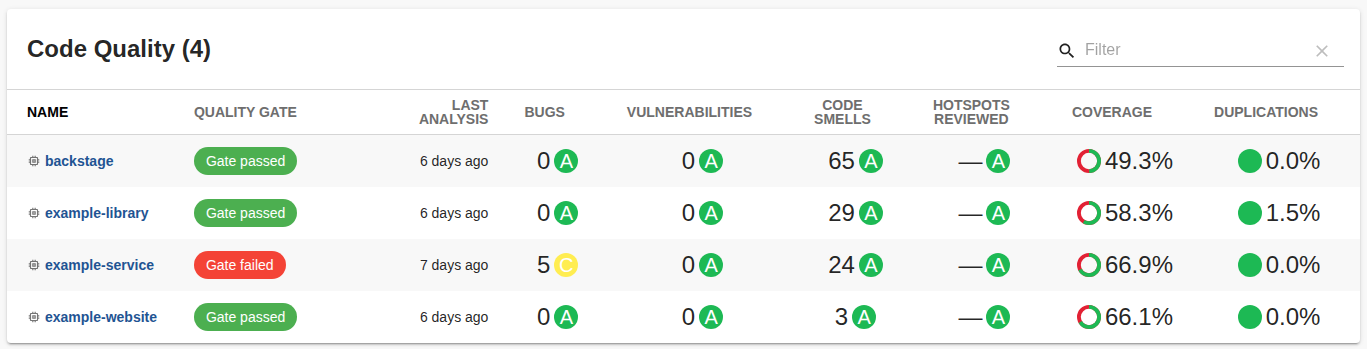
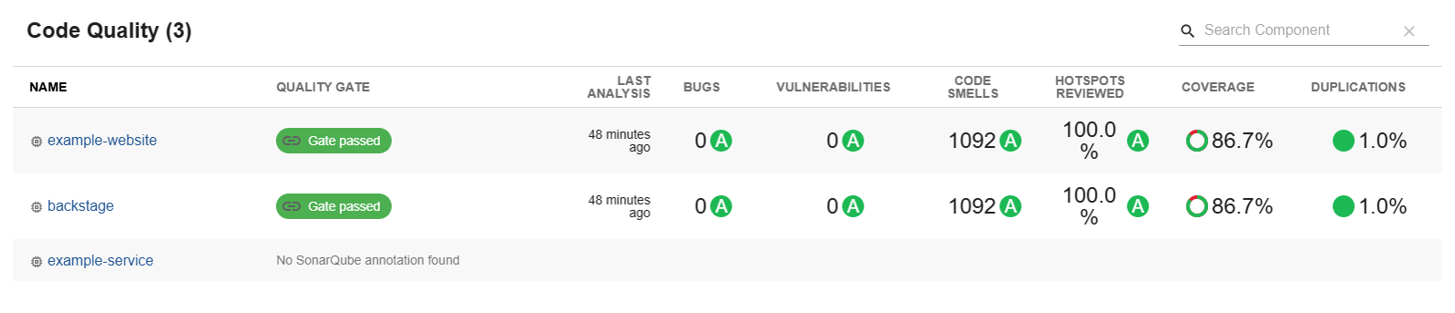
[Sonarqube Plugin]: Improve the discoverability of Sonarqube dashboard URL in both sonarqube entity card & tabular view (#4420)

diff --git a/workspaces/sonarqube/plugins/sonarqube/src/components/SonarQubeCard/MetricInsights.tsx b/workspaces/sonarqube/plugins/sonarqube/src/components/SonarQubeCard/MetricInsights.tsx
@@ -32,6 +32,8 @@ import { Value } from './Value';
 import { FindingSummary } from '@backstage-community/plugin-sonarqube-react';
 import { useTranslationRef } from '@backstage/frontend-plugin-api';
 import { sonarqubeTranslationRef } from '../../translation';
+import Tooltip from '@material-ui/core/Tooltip';
+import LinkIcon from '@material-ui/icons/Link';
 
 type MetricInsightsProps = {
   value: FindingSummary | any;
@@ -66,6 +68,7 @@ export const QualityBadge = (props: MetricInsightsProps) => {
   const { value } = props;
   let gateLabel: string = t('sonarQubeCard.qualityBadgeLabel.notComputed');
   let gateColor = classes.badgeUnknown;
+  let gateLinkToolTip = '';
   if (value?.metrics.alert_status) {
     const gatePassed = value?.metrics.alert_status === 'OK';
     gateLabel = gatePassed
@@ -75,6 +78,7 @@ export const QualityBadge = (props: MetricInsightsProps) => {
   }
   let clickableAttrs = {};
   if (value.projectUrl) {
+    gateLinkToolTip = t('sonarQubeCard.qualityBadgeTooltip');
     clickableAttrs = {
       component: 'a',
       href: value.projectUrl,
@@ -82,12 +86,15 @@ export const QualityBadge = (props: MetricInsightsProps) => {
     };
   }
   const qualityBadge = (
-    <Chip
-      label={gateLabel}
-      {...clickableAttrs}
-      className={props.compact ? classes.badgeCompact : ''}
-      classes={{ root: gateColor, label: classes.badgeLabel }}
-    />
+    <Tooltip title={gateLinkToolTip}>
+      <Chip
+        label={gateLabel}
+        {...clickableAttrs}
+        className={props.compact ? classes.badgeCompact : ''}
+        classes={{ root: gateColor, label: classes.badgeLabel }}
+        icon={value.projectUrl ? <LinkIcon /> : undefined}
+      />
+    </Tooltip>
   );
   return qualityBadge;
 };

diff --git a/workspaces/sonarqube/plugins/sonarqube/src/translation.ts b/workspaces/sonarqube/plugins/sonarqube/src/translation.ts
@@ -45,6 +45,7 @@ export const sonarqubeTranslationRef = createTranslationRef({
         gatePassed: 'Gate passed',
         gateFailed: 'Gate failed',
       },
+      qualityBadgeTooltip: 'View SonarQube Dashboard',
     },
     sonarQubeTable: {
       columnsTitle: {

diff --git a/workspaces/sonarqube/plugins/sonarqube/report.api.md b/workspaces/sonarqube/plugins/sonarqube/report.api.md
@@ -123,6 +123,7 @@ export const sonarqubeTranslationRef: TranslationRef<
     readonly 'sonarQubeCard.hotspotsReviewedTitle': 'Hotspots Reviewed';
     readonly 'sonarQubeCard.coverageRatingCardTitle': 'Coverage';
     readonly 'sonarQubeCard.duplicationsRatingCard': 'Duplications';
+    readonly 'sonarQubeCard.qualityBadgeTooltip': 'View SonarQube Dashboard';
     readonly 'sonarQubeCard.emptyState.title': 'No information to display';
     readonly 'sonarQubeCard.emptyState.description': "There is no SonarQube project with key '{{ projectTitle }}', check that project exists and permissions.";
     readonly 'sonarQubeCard.noSonarQubeError.hasAnnotation': "There is no SonarQube project with key '{{project}}'";

diff --git a/workspaces/sonarqube/.changeset/six-carrots-rule.md b/workspaces/sonarqube/.changeset/six-carrots-rule.md
@@ -1,0 +1,5 @@
+---
+'@backstage-community/plugin-sonarqube': minor
+---
+
+Improve the discoverability of Sonarqube dashboard URL in both sonarqube entity card & tabular view
